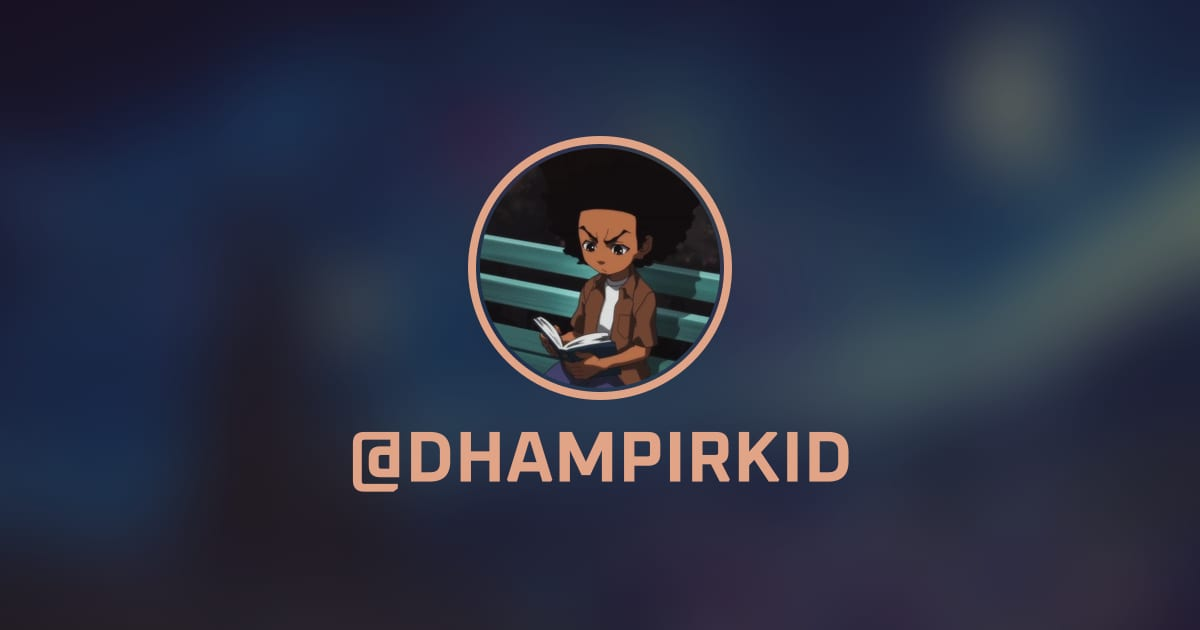
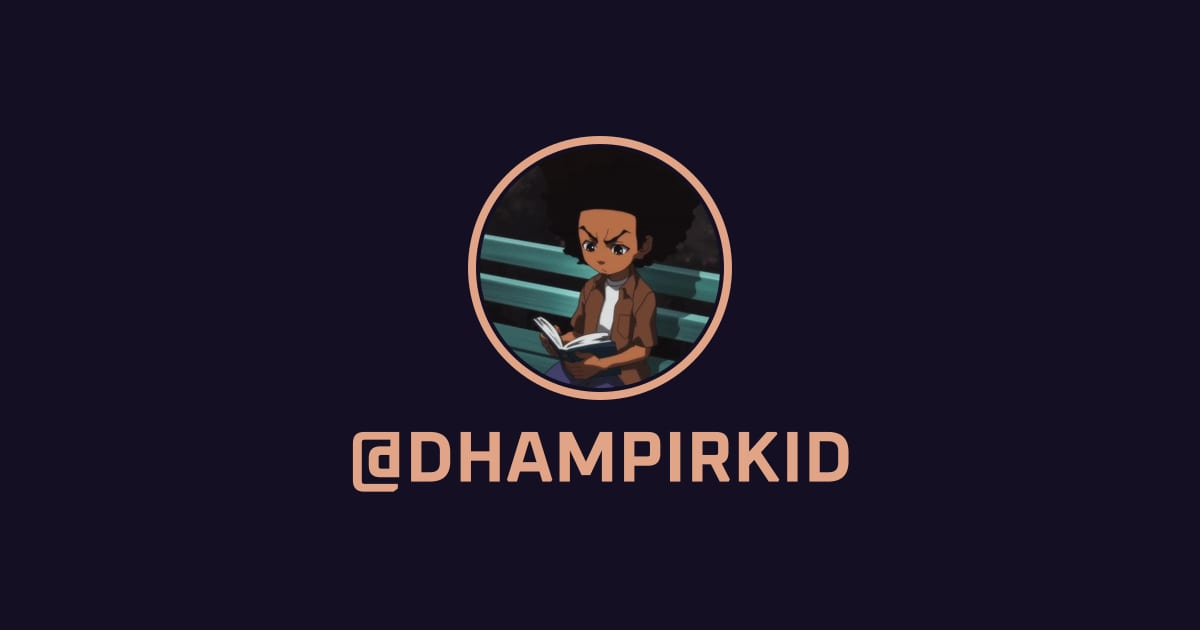
feat: add Open Graph configuration for social media sharing

diff --git a/js/config.js b/js/config.js
@@ -11,6 +11,9 @@ window.PERFIL = {
   nome: "@DHAMPIRKID",
   foto: "assets/images/perfil.png",
   banner: "assets/images/banner.png",
+  og: { 
+    fundo: "solido" 
+  },   // blur (banner desfocado) | imagem (banner puro) | solido (cor do tema)
   redes: [
     { tipo: "whatsapp",  url: "https://wa.me/5521969079474" },
     { tipo: "instagram", url: "https://instagram.com/dhampirkid" },
